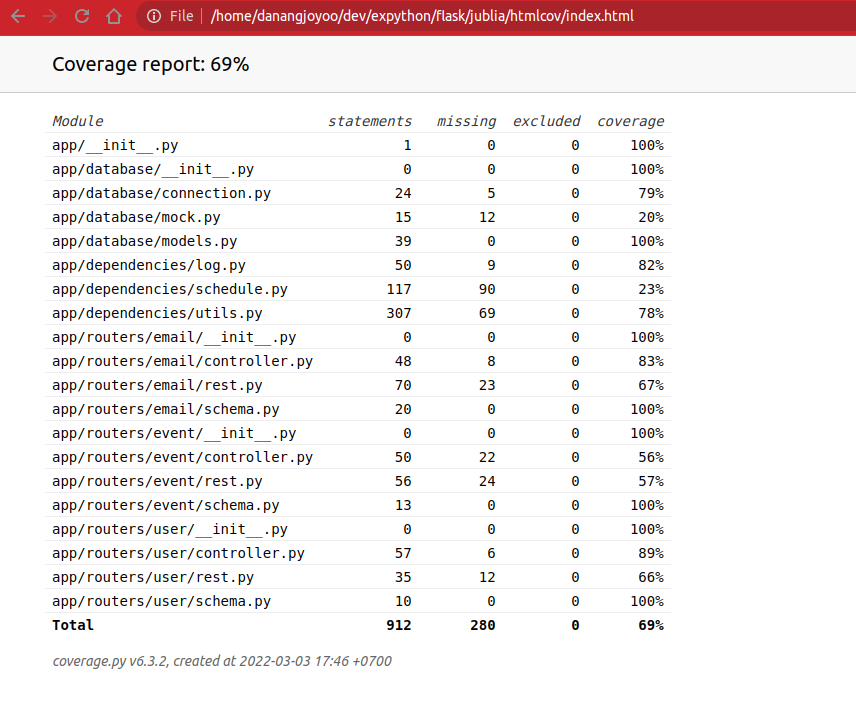
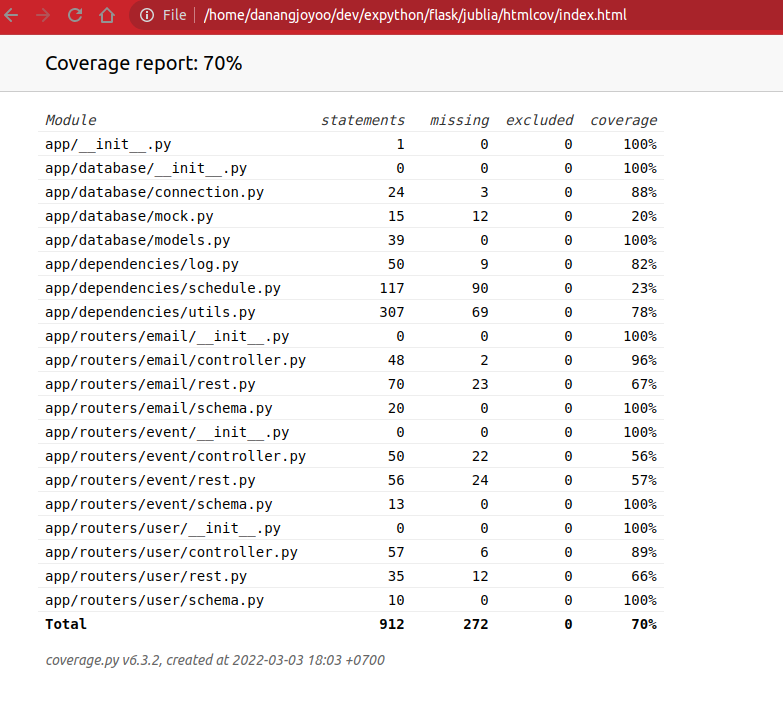
update pytest and README

diff --git a/tests/test_router_email.py b/tests/test_router_email.py
@@ -1,6 +1,31 @@
 import os, pytest
+from datetime import datetime
 from . import dummy
 
+def test_save_email_success(client):
+    dummy.setup_dummy_event(client, 1)
+    data = {
+        "event_id": 1,
+        "email_subject": "My Subject x",
+        "email_content": "My Content a",
+        "timestamp": datetime.now().isoformat()
+    }
+    response = client.post("/save_email", json=data)
+    jsonResponse = response.json
+    assert response.status_code == 200
+    assert jsonResponse["status"]["code"] == 0
+
+def test_save_email_failed(client):
+    data = {
+        "event_id": 1,
+        "email_subject": "My Subject x",
+        "email_content": "My Content a",
+        "timestamp": datetime.now().isoformat()
+    }
+    response = client.post("/save_email", json=data)
+    jsonResponse = response.json
+    assert response.status_code == 200
+    assert jsonResponse["status"]["code"] == 100
 
 def test_list_email_success(client):
     response = client.get("/email")

diff --git a/README.md b/README.md
@@ -48,7 +48,7 @@ You can click `CTRL+C` twice (2x) :
 - Test All Created Case With Coverage HTML
     1. Run
         ```bash
-        pytest --cov=app ==cov=report html
+        pytest --cov=app --cov-report html
         ```
     2. Open `htmlcov/index.html` to your browser
         ![Alt text](docs/coverage-1.png )
